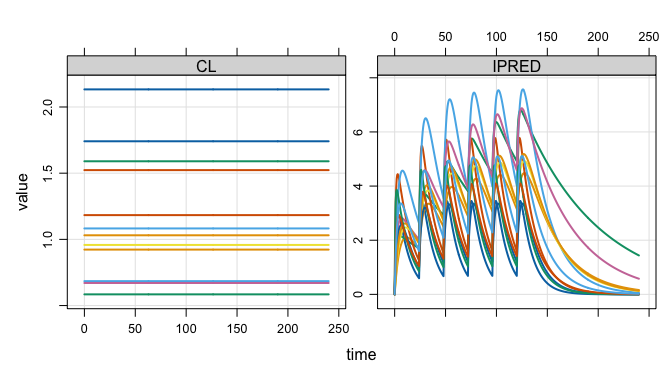
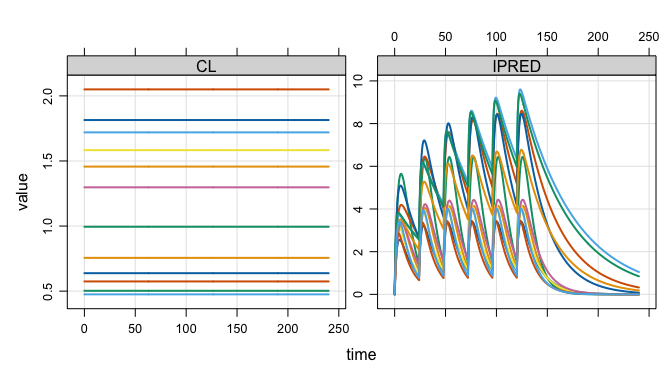
readme

diff --git a/README.md b/README.md
@@ -15,8 +15,8 @@ for summarizing huge simulation outputs. The arrow-based simulation
 output objects in R claim ownership of their files on disk. Those files
 are automatically removed when the owning object goes out of scope and
 becomes subject to the R garbage collector. While “anonymous”,
-parquet-formatted files hold the data in `tempdir()` while you are
-working in R, functions are provided to move your data to more permanent
+parquet-formatted files hold the data in `tempdir()` as you are working
+in R, functions are provided to move this data to more permanent
 locations for later use.
 
 ## Installation
@@ -55,15 +55,15 @@ out
 . Dim  : 1.4M 4
 . Files: 1 [11.9 Mb]
 . Owner: yes
-.     ID time       CL    IPRED
-. 1:   1  0.0 2.132976 0.000000
-. 2:   1  0.0 2.132976 0.000000
-. 3:   1  0.5 2.132976 1.093560
-. 4:   1  1.0 2.132976 1.834929
-. 5:   1  1.5 2.132976 2.324766
-. 6:   1  2.0 2.132976 2.635421
-. 7:   1  2.5 2.132976 2.818883
-. 8:   1  3.0 2.132976 2.912487
+.     ID time       CL     IPRED
+. 1:   1  0.0 1.814508 0.0000000
+. 2:   1  0.0 1.814508 0.0000000
+. 3:   1  0.5 1.814508 0.7419314
+. 4:   1  1.0 1.814508 1.2992778
+. 5:   1  1.5 1.814508 1.7129649
+. 6:   1  2.0 1.814508 2.0149795
+. 7:   1  2.5 1.814508 2.2303183
+. 8:   1  3.0 1.814508 2.3785110
 ```
 
 ## Very lightweight simulation output object
@@ -74,7 +74,7 @@ disk.
 
 ``` r
 basename(out$files)
-. [1] "mrgsims-ds-179e47ac2e330.parquet"
+. [1] "mrgsims-ds-17b75d163e09.parquet"
 ```
 
 This means there is almost nothing inside the object itself
@@ -118,23 +118,23 @@ head(out)
 . # A tibble: 6 × 4
 .      ID  time    CL IPRED
 .   <dbl> <dbl> <dbl> <dbl>
-. 1     1   0    2.13  0   
-. 2     1   0    2.13  0   
-. 3     1   0.5  2.13  1.09
-. 4     1   1    2.13  1.83
-. 5     1   1.5  2.13  2.32
-. 6     1   2    2.13  2.64
+. 1     1   0    1.81 0    
+. 2     1   0    1.81 0    
+. 3     1   0.5  1.81 0.742
+. 4     1   1    1.81 1.30 
+. 5     1   1.5  1.81 1.71 
+. 6     1   2    1.81 2.01
 
 tail(out)
 . # A tibble: 6 × 4
-.      ID  time    CL IPRED
-.   <dbl> <dbl> <dbl> <dbl>
-. 1  3000  238.  1.17 0.133
-. 2  3000  238   1.17 0.131
-. 3  3000  238.  1.17 0.129
-. 4  3000  239   1.17 0.127
-. 5  3000  240.  1.17 0.125
-. 6  3000  240   1.17 0.123
+.      ID  time    CL     IPRED
+.   <dbl> <dbl> <dbl>     <dbl>
+. 1  3000  238.  2.19 0.0000204
+. 2  3000  238   2.19 0.0000193
+. 3  3000  238.  2.19 0.0000183
+. 4  3000  239   2.19 0.0000173
+. 5  3000  240.  2.19 0.0000164
+. 6  3000  240   2.19 0.0000156
 
 dim(out)
 . [1] 1446000       4
@@ -148,16 +148,16 @@ as_tibble(out)
 . # A tibble: 1,446,000 × 4
 .       ID  time    CL IPRED
 .    <dbl> <dbl> <dbl> <dbl>
-.  1     1   0    2.13  0   
-.  2     1   0    2.13  0   
-.  3     1   0.5  2.13  1.09
-.  4     1   1    2.13  1.83
-.  5     1   1.5  2.13  2.32
-.  6     1   2    2.13  2.64
-.  7     1   2.5  2.13  2.82
-.  8     1   3    2.13  2.91
-.  9     1   3.5  2.13  2.94
-. 10     1   4    2.13  2.93
+.  1     1   0    1.81 0    
+.  2     1   0    1.81 0    
+.  3     1   0.5  1.81 0.742
+.  4     1   1    1.81 1.30 
+.  5     1   1.5  1.81 1.71 
+.  6     1   2    1.81 2.01 
+.  7     1   2.5  1.81 2.23 
+.  8     1   3    1.81 2.38 
+.  9     1   3.5  1.81 2.47 
+. 10     1   4    1.81 2.53 
 . # ℹ 1,445,990 more rows
 ```
 
@@ -183,16 +183,16 @@ as_duckdb_ds(out)
 . # Database: DuckDB 1.4.3 [kyleb@Darwin 24.6.0:R 4.5.2/:memory:]
 .       ID  time    CL IPRED
 .    <dbl> <dbl> <dbl> <dbl>
-.  1     1   0    2.13  0   
-.  2     1   0    2.13  0   
-.  3     1   0.5  2.13  1.09
-.  4     1   1    2.13  1.83
-.  5     1   1.5  2.13  2.32
-.  6     1   2    2.13  2.64
-.  7     1   2.5  2.13  2.82
-.  8     1   3    2.13  2.91
-.  9     1   3.5  2.13  2.94
-. 10     1   4    2.13  2.93
+.  1     1   0    1.81 0    
+.  2     1   0    1.81 0    
+.  3     1   0.5  1.81 0.742
+.  4     1   1    1.81 1.30 
+.  5     1   1.5  1.81 1.71 
+.  6     1   2    1.81 2.01 
+.  7     1   2.5  1.81 2.23 
+.  8     1   3    1.81 2.38 
+.  9     1   3.5  1.81 2.47 
+. 10     1   4    1.81 2.53 
 . # ℹ more rows
 ```
 
@@ -226,13 +226,13 @@ collect(dd)
 .     time  Mean     n
 .    <dbl> <dbl> <int>
 .  1   0    0     6000
-.  2   0.5  1.12  3000
-.  3   1    1.81  3000
-.  4   1.5  2.28  3000
-.  5   2    2.59  3000
-.  6   2.5  2.80  3000
-.  7   3    2.95  3000
-.  8   3.5  3.05  3000
+.  2   0.5  1.10  3000
+.  3   1    1.80  3000
+.  4   1.5  2.26  3000
+.  5   2    2.58  3000
+.  6   2.5  2.79  3000
+.  7   3    2.94  3000
+.  8   3.5  3.04  3000
 .  9   4    3.10  3000
 . 10   4.5  3.14  3000
 . # ℹ 471 more rows
@@ -255,17 +255,17 @@ out2 <- reduce_ds(out2)
 out2
 . Model: popex
 . Dim  : 14.5M 4
-. Files: 10 [119.1 Mb]
+. Files: 10 [119.2 Mb]
 . Owner: yes
-.     ID time        CL    IPRED
-. 1:   1  0.0 0.4115609 0.000000
-. 2:   1  0.0 0.4115609 0.000000
-. 3:   1  0.5 0.4115609 1.003112
-. 4:   1  1.0 0.4115609 1.747844
-. 5:   1  1.5 0.4115609 2.298677
-. 6:   1  2.0 0.4115609 2.704018
-. 7:   1  2.5 0.4115609 3.000205
-. 8:   1  3.0 0.4115609 3.214519
+.     ID time       CL     IPRED
+. 1:   1  0.0 1.263968 0.0000000
+. 2:   1  0.0 1.263968 0.0000000
+. 3:   1  0.5 1.263968 0.2964525
+. 4:   1  1.0 1.263968 0.5610117
+. 5:   1  1.5 1.263968 0.7965534
+. 6:   1  2.0 1.263968 1.0057036
+. 7:   1  2.5 1.263968 1.1908602
+. 8:   1  3.0 1.263968 1.3542126
 ```
 
 ## Files on disk are automagically managed
@@ -275,11 +275,11 @@ All `arrow` files are stored in the `tempdir()` in parquet format
 ``` r
 list_temp()
 . 11 files [131.1 Mb]
-. - mrgsims-ds-179e47ac2e330.parquet
-. - mrgsims-ds-17a2725d99564.parquet
+. - mrgsims-ds-17b75d163e09.parquet
+. - mrgsims-ds-17bb647d0a45b.parquet
 .    ...
-. - mrgsims-ds-17a2b178b3339.parquet
-. - mrgsims-ds-17a2b5ed39f7a.parquet
+. - mrgsims-ds-17bba1ba48f2f.parquet
+. - mrgsims-ds-17bba50b464d6.parquet
 ```
 
 This directory is eventually removed when the R session ends. Tools are
@@ -290,12 +290,12 @@ retain_temp(out2)
 . Discarding 1 files.
 
 list_temp()
-. 10 files [119.1 Mb]
-. - mrgsims-ds-17a2725d99564.parquet
-. - mrgsims-ds-17a276fdeeba5.parquet
+. 10 files [119.2 Mb]
+. - mrgsims-ds-17bb647d0a45b.parquet
+. - mrgsims-ds-17bb67e2b9e1a.parquet
 .    ...
-. - mrgsims-ds-17a2b178b3339.parquet
-. - mrgsims-ds-17a2b5ed39f7a.parquet
+. - mrgsims-ds-17bba1ba48f2f.parquet
+. - mrgsims-ds-17bba50b464d6.parquet
 ```
 
 We also put a finalizer on each object so that, when it goes out of
@@ -337,8 +337,8 @@ cleaned up.
 ``` r
 gc()
 .            used  (Mb) gc trigger  (Mb) limit (Mb) max used  (Mb)
-. Ncells  1946633 104.0    3637334 194.3         NA  3202150 171.1
-. Vcells 15236493 116.3   29084536 221.9      16384 27039547 206.3
+. Ncells  1946634 104.0    3637431 194.3         NA  3186310 170.2
+. Vcells 15236499 116.3   29084531 221.9      16384 27039543 206.3
 
 list_temp()
 . 2 files [23.8 Mb]
